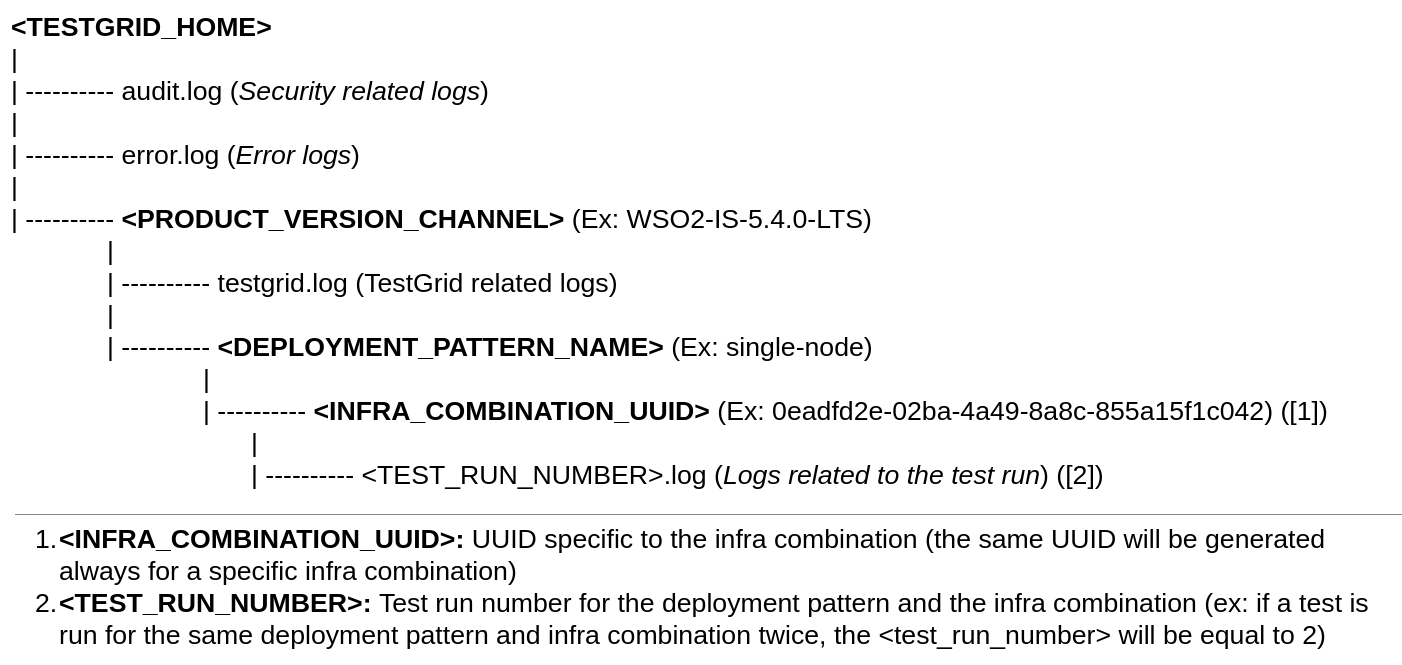
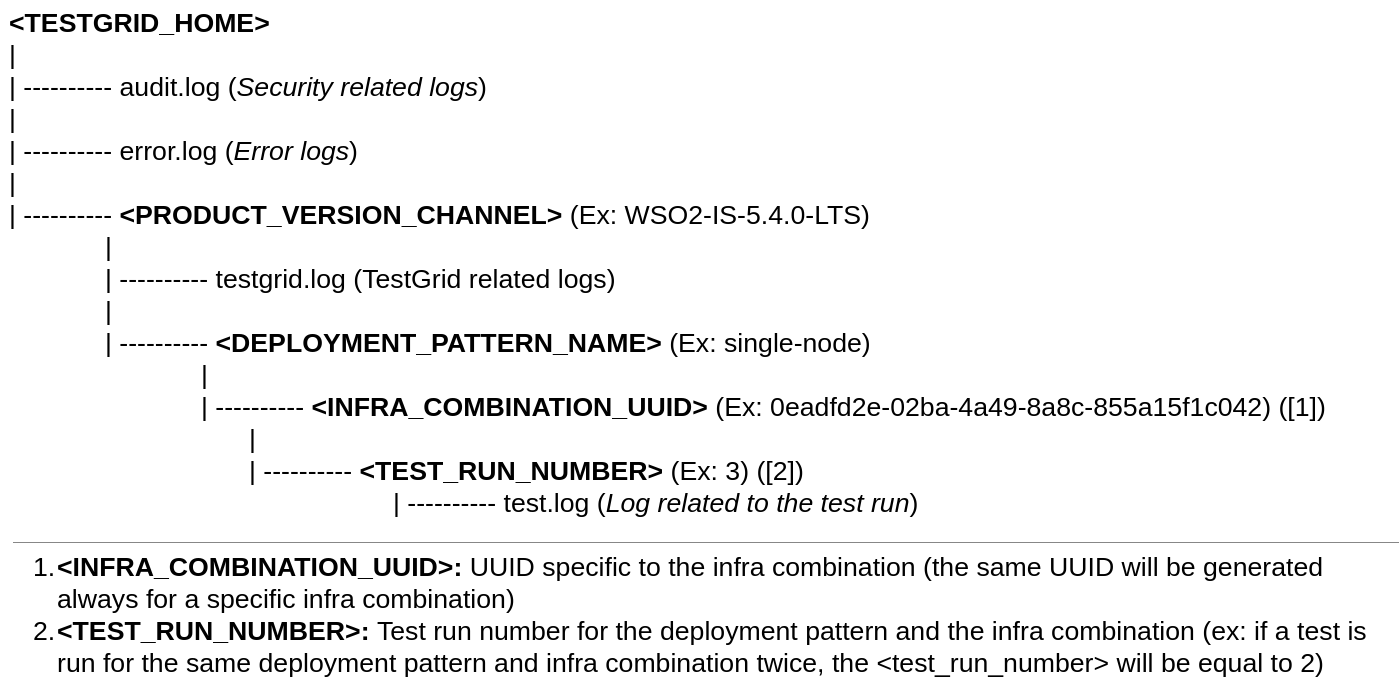
Fix issue in generating test run number

diff --git a/core/src/main/java/org/wso2/testgrid/core/command/RunTestPlanCommand.java b/core/src/main/java/org/wso2/testgrid/core/command/RunTestPlanCommand.java
@@ -49,9 +49,9 @@ import java.nio.file.Path;
 import java.nio.file.Paths;
 import java.util.ArrayList;
 import java.util.Collections;
+import java.util.Comparator;
 import java.util.List;
 import java.util.Optional;
-import java.util.UUID;
 
 /**
  * This runs the test plans for the given parameters.
@@ -298,11 +298,10 @@ public class RunTestPlanCommand implements Command {
         String productDir = StringUtil.concatStrings(product.getName(), "_", product.getVersion()
                 , "_", product.getChannel());
         String deploymentDir = testPlan.getDeploymentPattern().getName();
-        String infraDir = UUID.nameUUIDFromBytes(testPlan.getInfraParameters().getBytes(Charset.defaultCharset()))
-                .toString();
+        String infraDir = TestGridUtil.getInfraParamUUID(testPlan.getInfraParameters());
         int testRunNumber = testPlan.getTestRunNumber();
 
-        return Paths.get(productDir, deploymentDir, infraDir, String.valueOf(testRunNumber)).toString();
+        return Paths.get(productDir, deploymentDir, infraDir, String.valueOf(testRunNumber), "test").toString();
     }
 
     /**
@@ -325,7 +324,7 @@ public class RunTestPlanCommand implements Command {
         deploymentPattern.addTestPlan(testPlan);
 
         // Set test run number
-        int latestTestRunNumber = getLatestTestRunNumber(deploymentPattern);
+        int latestTestRunNumber = getLatestTestRunNumber(deploymentPattern, testPlan.getInfraParameters());
         testPlan.setTestRunNumber(latestTestRunNumber + 1);
 
         // Set test scenarios
@@ -376,12 +375,22 @@ public class RunTestPlanCommand implements Command {
      * Returns the latest test run number.
      *
      * @param deploymentPattern deployment pattern to get the latest test run number
+     * @param infraParams       infrastructure parameters to get the latest test run number
      * @return latest test run number
      */
-    private int getLatestTestRunNumber(DeploymentPattern deploymentPattern) {
-        return Collections.max(deploymentPattern.getTestPlans(),
-                (testPlan1, testPlan2) -> Integer.compare(testPlan2.getTestRunNumber(), testPlan1.getTestRunNumber()))
-                .getTestRunNumber();
+    private int getLatestTestRunNumber(DeploymentPattern deploymentPattern, String infraParams) {
+        // Get test plans with the same infra param
+        List<TestPlan> testPlans = new ArrayList<>();
+        for (TestPlan testPlan : deploymentPattern.getTestPlans()) {
+            if (testPlan.getInfraParameters().equals(infraParams)) {
+                testPlans.add(testPlan);
+            }
+        }
+
+        // Get the Test Plan with the latest test run number for the given infra combination
+        TestPlan latestTestPlan = Collections.max(testPlans, Comparator.comparingInt(TestPlan::getTestRunNumber));
+
+        return latestTestPlan.getTestRunNumber();
     }
 }
 

diff --git a/common/src/main/java/org/wso2/testgrid/common/util/TestGridUtil.java b/common/src/main/java/org/wso2/testgrid/common/util/TestGridUtil.java
@@ -28,10 +28,12 @@ import java.io.BufferedReader;
 import java.io.File;
 import java.io.IOException;
 import java.io.InputStreamReader;
+import java.nio.charset.Charset;
 import java.nio.charset.StandardCharsets;
 import java.nio.file.Path;
 import java.nio.file.Paths;
 import java.util.Map;
+import java.util.UUID;
 
 /**
  * This Util class holds the common utility methods.
@@ -148,5 +150,15 @@ public final class TestGridUtil {
         String testGridHome = EnvironmentUtil.getSystemVariableValue(TESTGRID_HOME_ENV);
         Path testGridHomePath = Paths.get(testGridHome);
         return testGridHomePath.toAbsolutePath().toString();
+    }
+
+    /**
+     * Returns a UUID specific to the infra parameters.
+     *
+     * @param infraParams infra parameters to get the UUID
+     * @return UUID specific to the infra parameters
+     */
+    public static String getInfraParamUUID(String infraParams) {
+        return UUID.nameUUIDFromBytes(infraParams.getBytes(Charset.defaultCharset())).toString();
     }
 }
